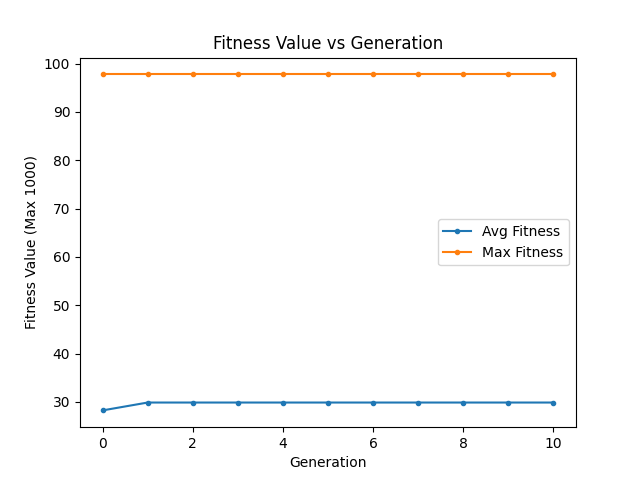
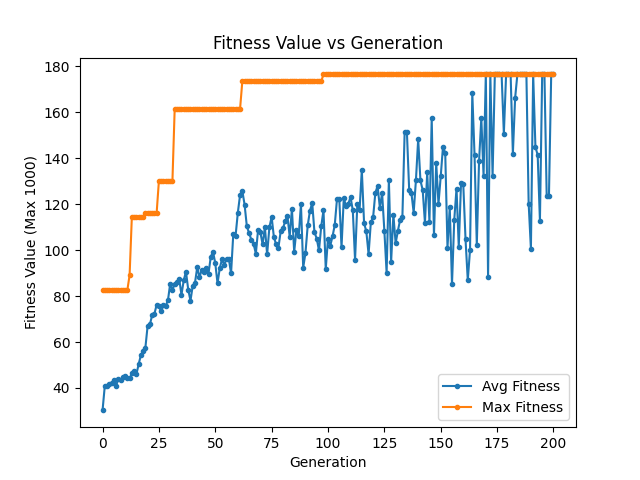
Updated two point recombination for constant domain

diff --git a/GEP.py b/GEP.py
@@ -31,6 +31,7 @@ class GeneExpressionProgramming():
         self.chrom_length = self.nhead + self.ntail
 
         self.dc_length = self.ntail
+        self.total_length = self.chrom_length+self.dc_length
         self.const_list = np.random.uniform(const_range[0],const_range[1],self.dc_length)
         #self.const_list = [3.0,1.1,4.0,1.1,4.0,1.1,4.0,1.1]
 
@@ -520,19 +521,28 @@ class GeneExpressionProgramming():
                     first_parent = recombination_pool[0]
                     second_parent = recombination_pool[1]
 
-                recombination_indexes = sorted(random.sample(range(1, len(chromosome) - 2), 2))
+                recombination_indexes = sorted(random.sample(range(1, self.chrom_length - 2), 2))
+                recombination_indexes_dc = sorted(random.sample(range(self.chrom_length+2, self.total_length - 2), 2))
 
                 recombination_start_index = recombination_indexes[0]
                 recombination_end_index = recombination_indexes[1]
+                recombination_start_index_dc = recombination_indexes_dc[0]
+                recombination_end_index_dc = recombination_indexes_dc[1]
 
-                first_end_original = first_parent[recombination_end_index+1:]
-                second_end_original = second_parent[recombination_end_index+1:]
+                first_end_original = first_parent[recombination_end_index+1:self.chrom_length+1]
+                second_end_original = second_parent[recombination_end_index+1:self.chrom_length+1]
+                first_end_original_dc = first_parent[recombination_end_index_dc+1:]
+                second_end_original_dc = second_parent[recombination_end_index_dc+1:]
 
                 first_child = first_parent[0:recombination_start_index]
                 second_child = second_parent[0:recombination_start_index]
+                first_child_dc = first_parent[self.chrom_length+1:recombination_start_index_dc]
+                second_child_dc = second_parent[self.chrom_length+1:recombination_start_index_dc]
 
                 first_cross = first_parent[recombination_start_index:recombination_end_index+1]
                 second_cross = second_parent[recombination_start_index:recombination_end_index+1]
+                first_cross_dc = first_parent[recombination_start_index_dc:recombination_end_index_dc+1]
+                second_cross_dc = second_parent[recombination_start_index_dc:recombination_end_index_dc+1]
 
 
                 for element in second_cross:
@@ -543,6 +553,20 @@ class GeneExpressionProgramming():
                 for element in first_end_original:
                     first_child.append(element)
                 for element in second_end_original:
+                    second_child.append(element)
+
+                for element in first_child_dc:
+                    first_child.append(element)
+                for element in second_cross_dc:
+                    first_child.append(element)
+                for element in first_end_original_dc:
+                    first_child.append(element)
+
+                for element in second_child_dc:
+                    second_child.append(element)
+                for element in first_cross_dc:
+                    second_child.append(element)
+                for element in second_end_original_dc:
                     second_child.append(element)
 
                 new_population.append(first_child.copy())
@@ -603,35 +627,35 @@ Constant list: {self.const_list}
 
             ## Entering new generation process
             # Selection (to choose parents and construct parent populations to reproduce)
-            #population = Selection(population, fitness)
+            population = Selection(population, fitness)
             print(
                 f'--------------------------------------------------------\nGen:{generation + 1}\nSelection from generation {generation} for generation {generation + 1} completed')
             # Replication
-            #population = Replication(population)
+            population = Replication(population)
 
             print(f'Gen:{generation + 1} Reproduction process begin !')
             # Mutation
-            #population = Mutation(population, self.operator_probabilities['Mutation'])
+            population = Mutation(population, self.operator_probabilities['Mutation'])
             print(f'Gen:{generation + 1} Mutation completed')
             # Inversion
-            #population = Inversion(population, self.operator_probabilities['Inversion'])
+            population = Inversion(population, self.operator_probabilities['Inversion'])
             print(f'Gen:{generation + 1} Inversion completed')
             # IS Transposition
-            #population = ISTransposition(population, self.operator_probabilities['IS Transposition'])
+            population = ISTransposition(population, self.operator_probabilities['IS Transposition'])
             print(f'Gen:{generation + 1} IS Transposition completed')
             # RIS Transposition
-            #population = RISTransposition(population, self.operator_probabilities['RIS Transposition'])
+            population = RISTransposition(population, self.operator_probabilities['RIS Transposition'])
             print(f'Gen:{generation + 1} RIS Transposition completed')
             # Gene Transposition
-            #population = GeneTransposition(population)
+            population = GeneTransposition(population)
             # One-point Recombination
-            #population = OnePointRecombination(population, self.operator_probabilities['One-point Recombination'])
+            population = OnePointRecombination(population, self.operator_probabilities['One-point Recombination'])
             print(f'Gen:{generation + 1} One-point Recombination completed')
             # Two-point Recombination
-            #population = TwoPointRecombination(population, self.operator_probabilities['Two-point Recombination'])
+            population = TwoPointRecombination(population, self.operator_probabilities['Two-point Recombination'])
             print(f'Gen:{generation + 1} Two-point Recombination completed')
             # Gene Recombination
-            #population = GeneRecombination(population)
+            population = GeneRecombination(population)
 
             print(f'Gen:{generation + 1} Reproduction process done !')
 

diff --git a/implementation_test.py b/implementation_test.py
@@ -34,8 +34,8 @@ operator_probabilities = {
 }
 
 head_length = 13
-population_size = 60
-generations = 10
+population_size = 300
+generations = 200
 fitness_func = 'mse'
 
 GEPProcess = GeneExpressionProgramming(head_length,func_set,term_set,const_range,operator_probabilities)
